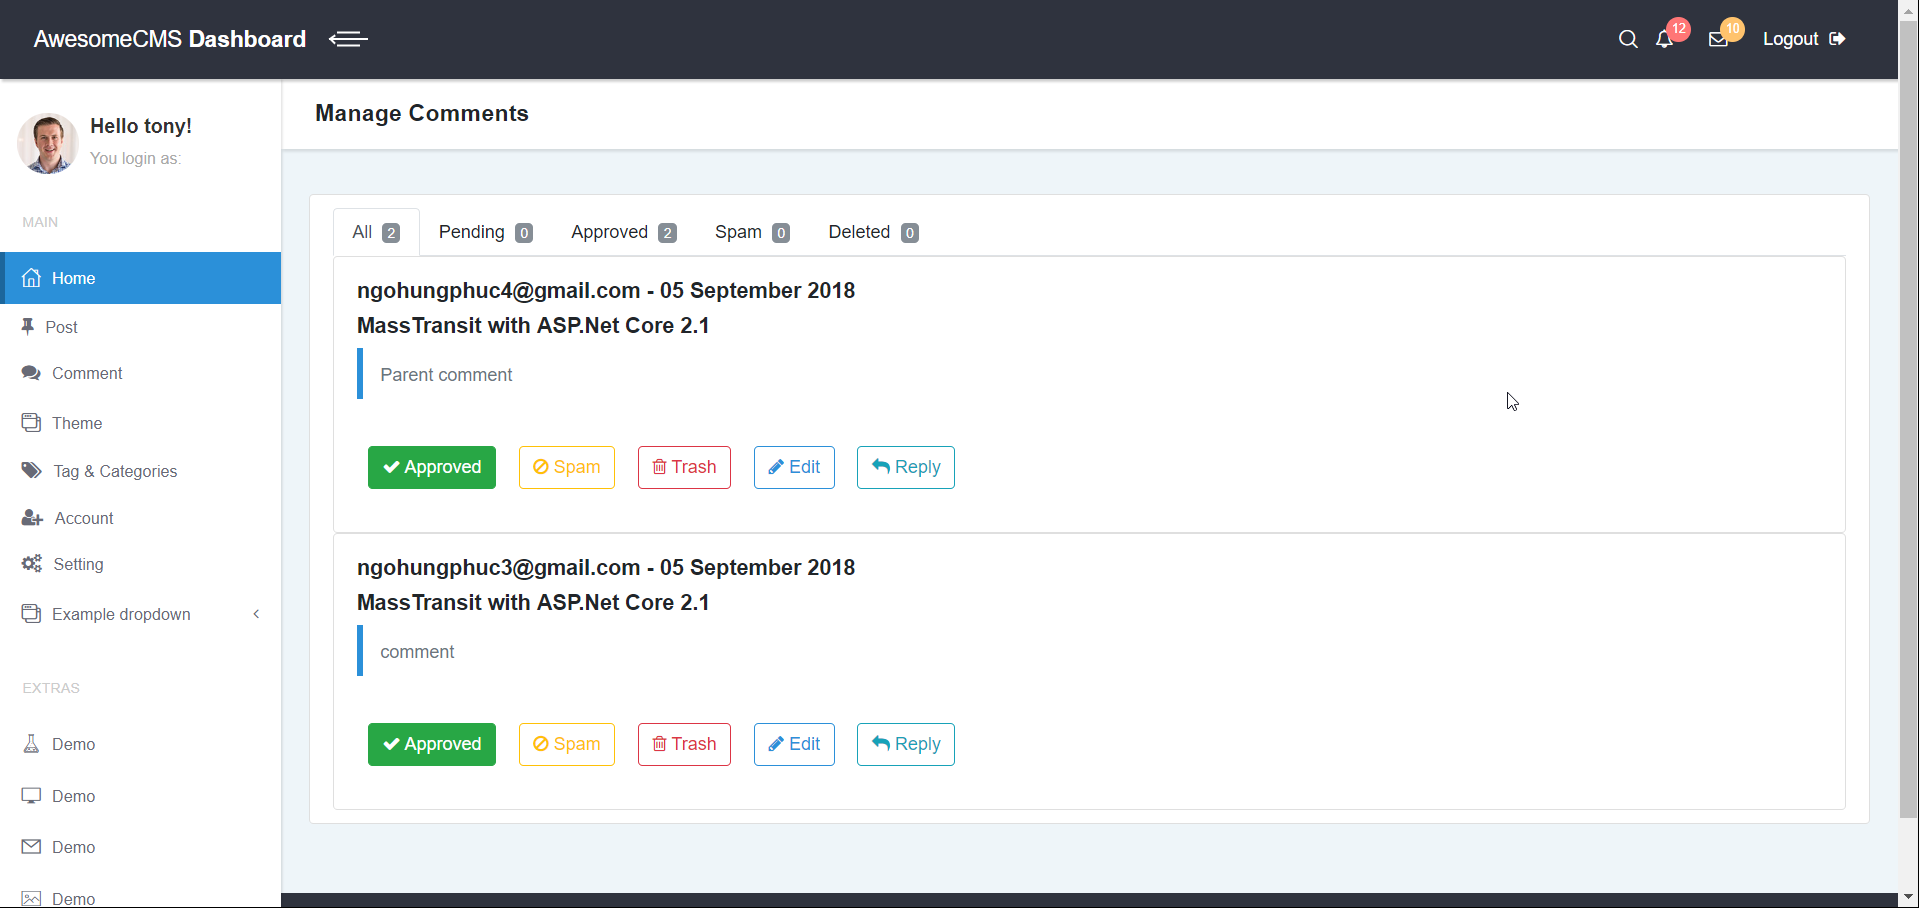
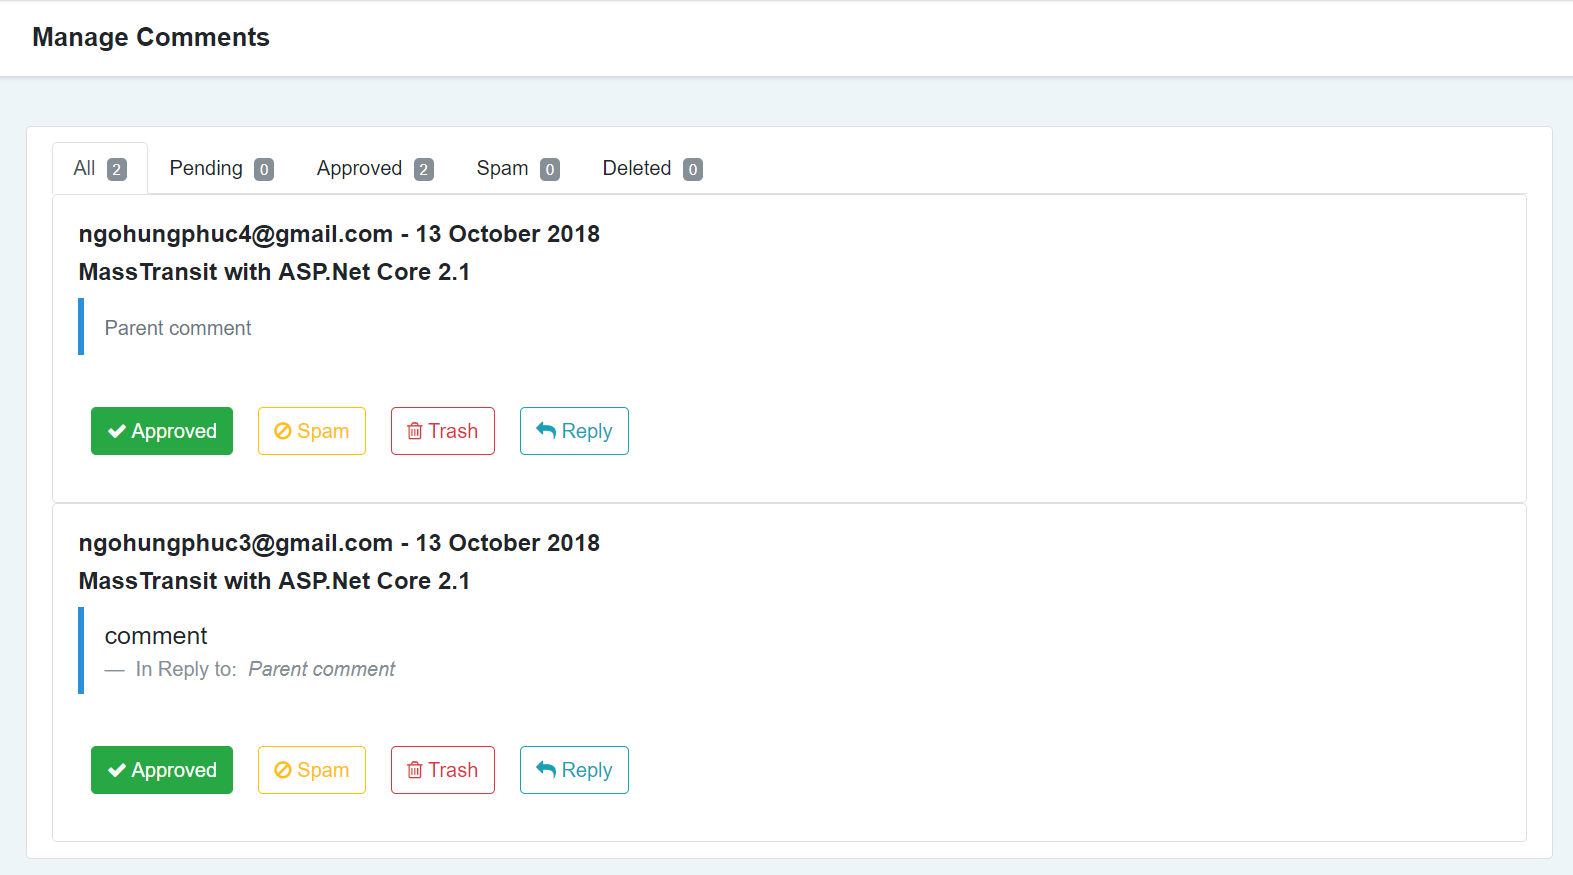
ACC-comment Load parent and child comment (#253)

diff --git a/src/AwesomeCMSCore/AwesomeCMSCore/React/js/App/Modules/Admin/Comment/CommentContainerBody.jsx b/src/AwesomeCMSCore/AwesomeCMSCore/React/js/App/Modules/Admin/Comment/CommentContainerBody.jsx
@@ -30,9 +30,16 @@ const CommentContainerBody = (props) => {
 																								<h3>{cm.user.email}
 																										&nbsp;- {moment(cm.comment.dateCreated).format('DD MMMM YYYY')}</h3>
 																								<h3>{cm.post.title}</h3>
-																								<blockquote className="blockquote">
-																										<small className="text-muted">{cm.comment.content}</small>
-																								</blockquote>
+																								{cm.comment.parentComment
+																										? <blockquote className="blockquote">
+																														<p className="mb-0">{cm.comment.content}</p>
+																														<footer className="blockquote-footer">In Reply to: &nbsp;
+																																<cite title={cm.comment.parentComment.content}>{cm.comment.parentComment.content}</cite>
+																														</footer>
+																												</blockquote>
+																										: <blockquote className="blockquote">
+																												<small className="text-muted">{cm.comment.content}</small>
+																										</blockquote>}
 																								<CommentActions
 																										comment={cm.comment}
 																										toggleApprovedComment={() => props.toggleApprovedComment(cm.comment.commentStatus, cm.comment.id)}
@@ -47,7 +54,7 @@ const CommentContainerBody = (props) => {
 																										.indexOf(`allComments-${cm.comment.id}`) !== -1
 																										? "visiblity"
 																										: "hidden"}
-																										onChange={(e) => props.onReply(cm.comment.id, e.target.value)}></Input>
+																										onKeyPress={(e) => props.onReply(cm.comment, e)}></Input>
 																						</ListGroupItem>
 																				</div>
 																		)
@@ -70,9 +77,16 @@ const CommentContainerBody = (props) => {
 																								<h3>{cm.user.email}
 																										&nbsp;- {moment(cm.comment.dateCreated).format('DD MMMM YYYY')}</h3>
 																								<h3>{cm.post.title}</h3>
-																								<blockquote className="blockquote">
-																										<small className="text-muted">{cm.comment.content}</small>
-																								</blockquote>
+																								{cm.comment.parentComment
+																										? <blockquote className="blockquote">
+																														<p className="mb-0">{cm.comment.content}</p>
+																														<footer className="blockquote-footer">In Reply to: &nbsp;
+																																<cite title={cm.comment.parentComment.content}>{cm.comment.parentComment.content}</cite>
+																														</footer>
+																												</blockquote>
+																										: <blockquote className="blockquote">
+																												<small className="text-muted">{cm.comment.content}</small>
+																										</blockquote>}
 																								<CommentActions
 																										comment={cm.comment}
 																										toggleApprovedComment={() => props.toggleApprovedComment(cm.comment.commentStatus, cm.comment.id)}
@@ -87,7 +101,7 @@ const CommentContainerBody = (props) => {
 																										.indexOf(`pendingComments-${cm.comment.id}`) !== -1
 																										? "visiblity"
 																										: "hidden"}
-																										onChange={(e) => props.onReply(cm.comment.id, e.target.value)}></Input>
+																										onKeyPress={(e) => props.onReply(cm.comment, e)}></Input>
 																						</ListGroupItem>
 																				</div>
 																		)
@@ -110,9 +124,16 @@ const CommentContainerBody = (props) => {
 																								<h3>{cm.user.email}
 																										&nbsp;- {moment(cm.comment.dateCreated).format('DD MMMM YYYY')}</h3>
 																								<h3>{cm.post.title}</h3>
-																								<blockquote className="blockquote">
-																										<small className="text-muted">{cm.comment.content}</small>
-																								</blockquote>
+																								{cm.comment.parentComment
+																										? <blockquote className="blockquote">
+																														<p className="mb-0">{cm.comment.content}</p>
+																														<footer className="blockquote-footer">In Reply to: &nbsp;
+																																<cite title={cm.comment.parentComment.content}>{cm.comment.parentComment.content}</cite>
+																														</footer>
+																												</blockquote>
+																										: <blockquote className="blockquote">
+																												<small className="text-muted">{cm.comment.content}</small>
+																										</blockquote>}
 																								<CommentActions
 																										comment={cm.comment}
 																										toggleApprovedComment={() => props.toggleApprovedComment(cm.comment.commentStatus, cm.comment.id)}
@@ -127,7 +148,7 @@ const CommentContainerBody = (props) => {
 																										.indexOf(`approvedComments-${cm.comment.id}`) !== -1
 																										? "visiblity"
 																										: "hidden"}
-																										onChange={(e) => props.onReply(cm.comment.id, e.target.value)}></Input>
+																										onKeyPress={(e) => props.onReply(cm.comment, e)}></Input>
 																						</ListGroupItem>
 																				</div>
 																		)
@@ -209,7 +230,7 @@ CommentContainerBody.propTypes = {
 		toggleSpamComment: PropTypes.func.isRequired,
 		toggleDeleteComment: PropTypes.func.isRequired,
 		opened: PropTypes.array,
-		onReply: PropTypes.func.isRequired
+		onReply: PropTypes.func
 }
 
 export default CommentContainerBody

diff --git a/src/AwesomeCMSCore/AwesomeCMSCore/React/js/App/Modules/Admin/Comment/CommentContainer.jsx b/src/AwesomeCMSCore/AwesomeCMSCore/React/js/App/Modules/Admin/Comment/CommentContainer.jsx
@@ -474,9 +474,11 @@ class CommentContainer extends Component {
 				}
 		}
 
-		onReply = (commentId, value) => {
-			console.log(commentId)
-			console.log(value)
+		onReply = (comment, e) => {
+				if (e.charCode  === 13) {
+						console.log(comment)
+						console.log(e.target.value)
+				}
 		}
 
 		render() {
@@ -500,6 +502,7 @@ class CommentContainer extends Component {
 																				toggleSpamComment={this.toggleSpamComment}
 																				toggleDeleteComment={this.toggleDeleteComment}
 																				toggleReplyBox={this.toggleReplyBox}
+																				onReply={this.onReply}
 																				opened={opened}/>
 																</div>
 														</ListGroupItem>

diff --git a/src/AwesomeCMSCore/Modules/AwesomeCMSCore.Modules.Admin/ViewModels/CommentDto.cs b/src/AwesomeCMSCore/Modules/AwesomeCMSCore.Modules.Admin/ViewModels/CommentDto.cs
@@ -1,4 +1,5 @@
-using System;
+using System;
+using AwesomeCMSCore.Modules.Entities.Entities;
 using AwesomeCMSCore.Modules.Entities.Enums;
 
 namespace AwesomeCMSCore.Modules.Admin.ViewModels
@@ -6,9 +7,10 @@ namespace AwesomeCMSCore.Modules.Admin.ViewModels
     public class CommentDto
     {
         public int Id { get; set; }
-        public Guid UniqueId { get; set; }
+        public Guid UniqeId { get; set; }
         public string Content { get; set; }
-        public CommentStatus CommentStatus { get; set; }
+	    public Comment ParentComment { get; set; }
+		public CommentStatus CommentStatus { get; set; }
         public DateTime DateCreated { get; set; }
     }
 }
